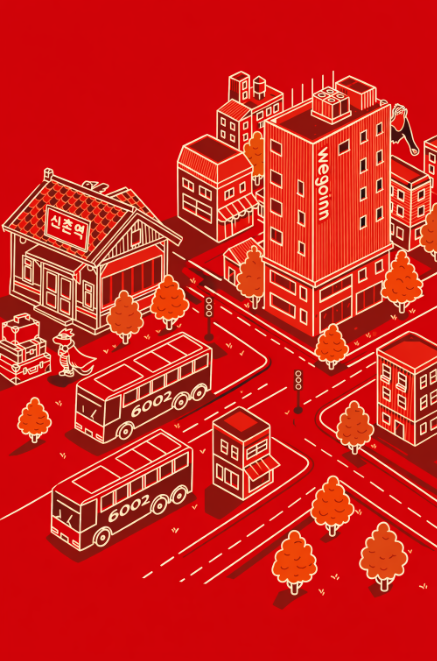
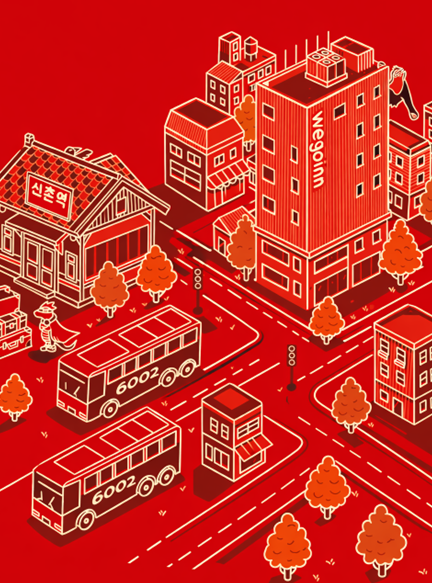
Update mobile home hero with latest uploaded image

diff --git a/mobile-home.html b/mobile-home.html
@@ -36,7 +36,7 @@
                     <h1 data-ko="위고인 호스텔" data-en="Wegoinn Hostel">위고인 호스텔</h1>
                     <p data-ko="Your Home Away From Home" data-en="Your Home Away From Home">Your Home Away From Home</p>
                 </div>
-                <img class="hero-city-art" src="images/homeArt.png" alt="Red Isometric City" draggable="false">
+                <img class="hero-city-art" src="images/homeArtMobile.png" alt="Red Isometric City" draggable="false">
             </section>
         </main>
 
